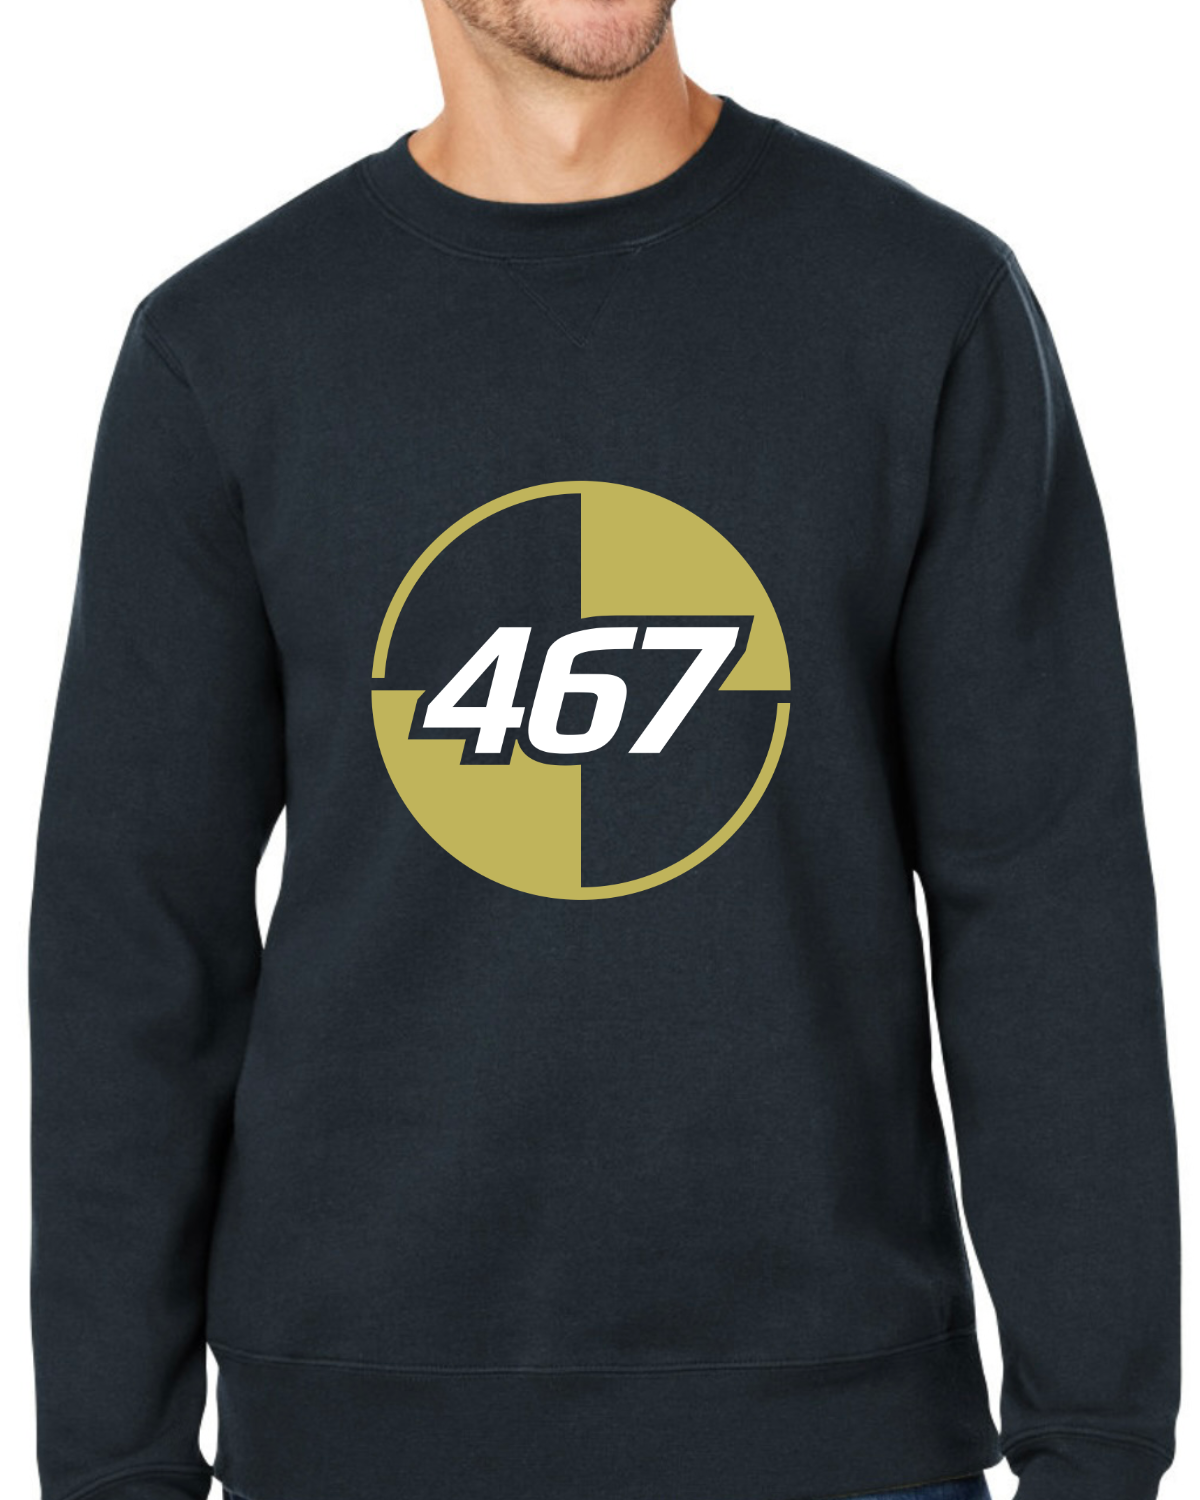
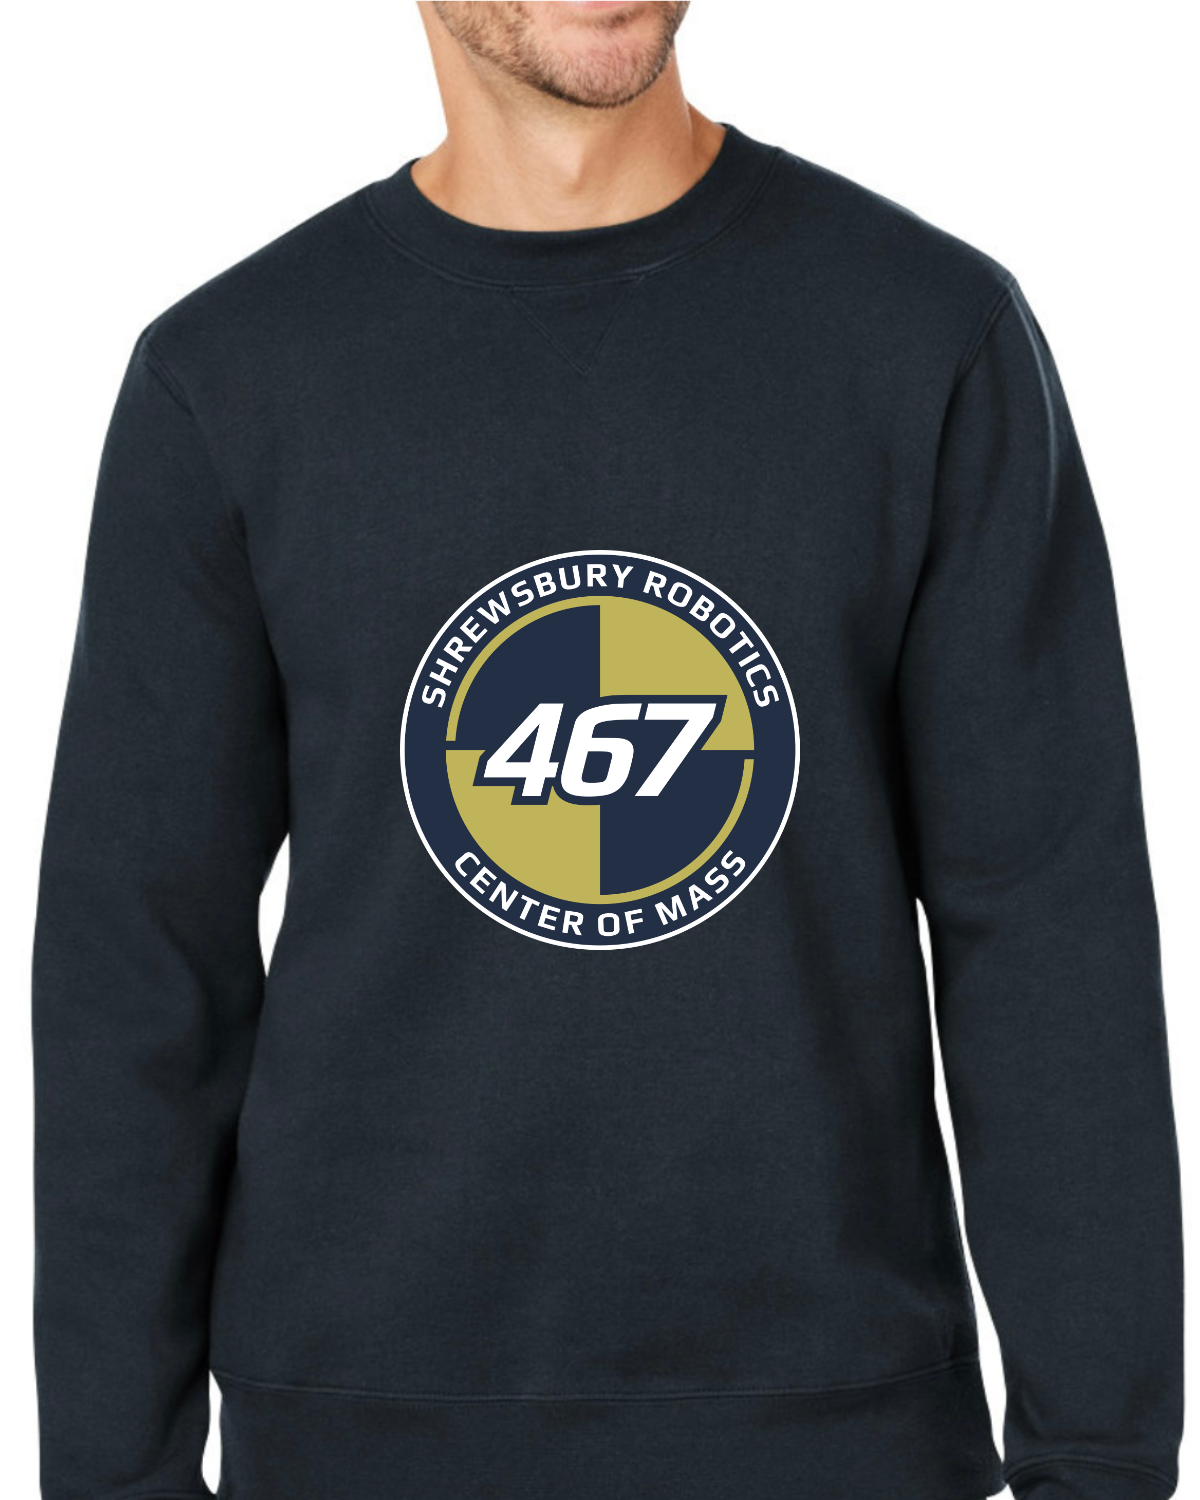
Updates to the team merch based on student feedback

diff --git a/content/resources/merchandise/index.md b/content/resources/merchandise/index.md
@@ -9,7 +9,7 @@ Every team member is expected to wear the team T-shirt when representing the tea
 
 For the 2025 season, since we have changed our name and logo, we would like all team members to wear a new shirt and not reuse one from a previous year. To make this easy on everyone, **the team will provide two T-Shirts this year to every team member** so no-one will have an excuse for not wearing the team colors.
 
-We know some team members also like to wear a sweatshirt at competition - particularly at District Championships which can get cold. To make it easy to allow this, while still proudly representing the team, we are offering a sweatshirt and crewneck for sale this year printed in the same markings as the T-Shirt.
+We know some team members also like to wear a sweatshirt at competition - particularly at District Championships which can get cold. To make it easy to allow this, while still proudly representing the team, we are offering 2 hooded sweatshirts and crewneck for sale this year printed in the same markings as the T-Shirt.
 
 This will hopefully allow Team 467 to present a cohesive team appearance and make all of _FIRST_ aware of our new name and logo. Please show your support for the team at competitions by only wearing this official merchandise.
 
@@ -19,16 +19,17 @@ This will hopefully allow Team 467 to present a cohesive team appearance and mak
 
 | Guertins Item No. | Color   | Picture | Description | Price |
 | ----------------- | ------- | --------| ----------- | ----- |
-| G800              | Navy    | {{< figure width=400px src="tshirt-front.png" >}} {{< figure width=400px src="tshirt-back.png" >}} | [Gildan short sleeve T-Shirt](https://www.gildan.com/us/en/8000-adult-t-shirt-en_us/?color=777) | $12 |
-| G840              | Navy    | as above with long sleeves | [Gildan long sleeve T-Shirt](https://www.gildan.com/us/en/8400-adult-long-sleeve-t-shirt-en_us/?color=032) | $16 |
-| JA8830            | Navy    | {{< figure width=400px src="hoodie-front.png" >}} {{< figure width=400px src="hoodie-back.png" >}} | [Hockey style pullover Hoodie](https://www.jamericablanks.com/cgi-bin/liveb2b/wam_tmpl/catalog_product.p?site=JAW&layout=Responsive&page=catalog_product&product=8830). Comes with both white and gold laces in the team colors. Price includes your name embroidered on the arm | $55 |
-| 8424JA            | Navy    | {{< figure width=400px src="crewneck-front.png" >}} {{< figure width=400px src="crewneck-back.png" >}} | [Crewneck pullover](https://www.jamericablanks.com/cgi-bin/liveb2b/wam_tmpl/catalog_product.p?site=JAW&layout=Responsive&page=catalog_product&product=8424). Price includes your name embroidered on the arm | $45 |
+| G800              | Navy    | {{< figure width=400px src="tshirt-front.png" >}} | [Gildan short sleeve T-Shirt](https://www.gildan.com/us/en/8000-adult-t-shirt-en_us/?color=777) - Back will be printed with team number, name and sponsor information. Design will be finalized during build season. | $12 |
+| G840              | Navy    | as above with long sleeves | [Gildan long sleeve T-Shirt](https://www.gildan.com/us/en/8400-adult-long-sleeve-t-shirt-en_us/?color=032) - Back will be printed with team number, name and sponsor information. Design will be finalized during build season. | $16 |
+| JA8830            | Navy    | {{< figure width=400px src="hockey-front.png" >}} | [Sport Lace Hood](https://www.jamericablanks.com/cgi-bin/liveb2b/wam_tmpl/catalog_product.p?site=JAW&layout=Responsive&page=catalog_product&product=8830) - Comes with both white and gold laces in the team colors. Nothing printed on the back. Price includes your name embroidered on the arm. | $55 |
+| JA8824            | Navy    | {{< figure width=400px src="hoodie-front.png" >}} | [Premium Fleece Hood](https://www.jamericablanks.com/cgi-bin/liveb2b/wam_tmpl/catalog_product.p?site=JAW&layout=Responsive&page=catalog_product&product=8824) - Nothing printed on the back. Price includes your name embroidered on the arm. | $52 |
+| 8424JA            | Navy    | {{< figure width=400px src="crewneck-front.png" >}} | [Premium Fleece Crew](https://www.jamericablanks.com/cgi-bin/liveb2b/wam_tmpl/catalog_product.p?site=JAW&layout=Responsive&page=catalog_product&product=8424) - Nothing printed on the back. Price includes your name embroidered on the arm. | $45 |
 
 ----
 
 # Unofficial Team Merchandise
 
-These options provide team members, alumni and supporters some alternatives to the official team clothing to wear outside of competitions to show their support for the team. **_For all of these items a name can be embroidered on the arm for an additional $10._**
+These options provide team members, alumni and supporters some alternatives to the official team clothing to show their support for the team. **_For all of these items a name can be embroidered on the arm for an additional $10._**
 
 | Guertins Item No. | Color   | Picture | Description | Price |
 | ----------------- | ------- | --------| ----------- | ----- |
